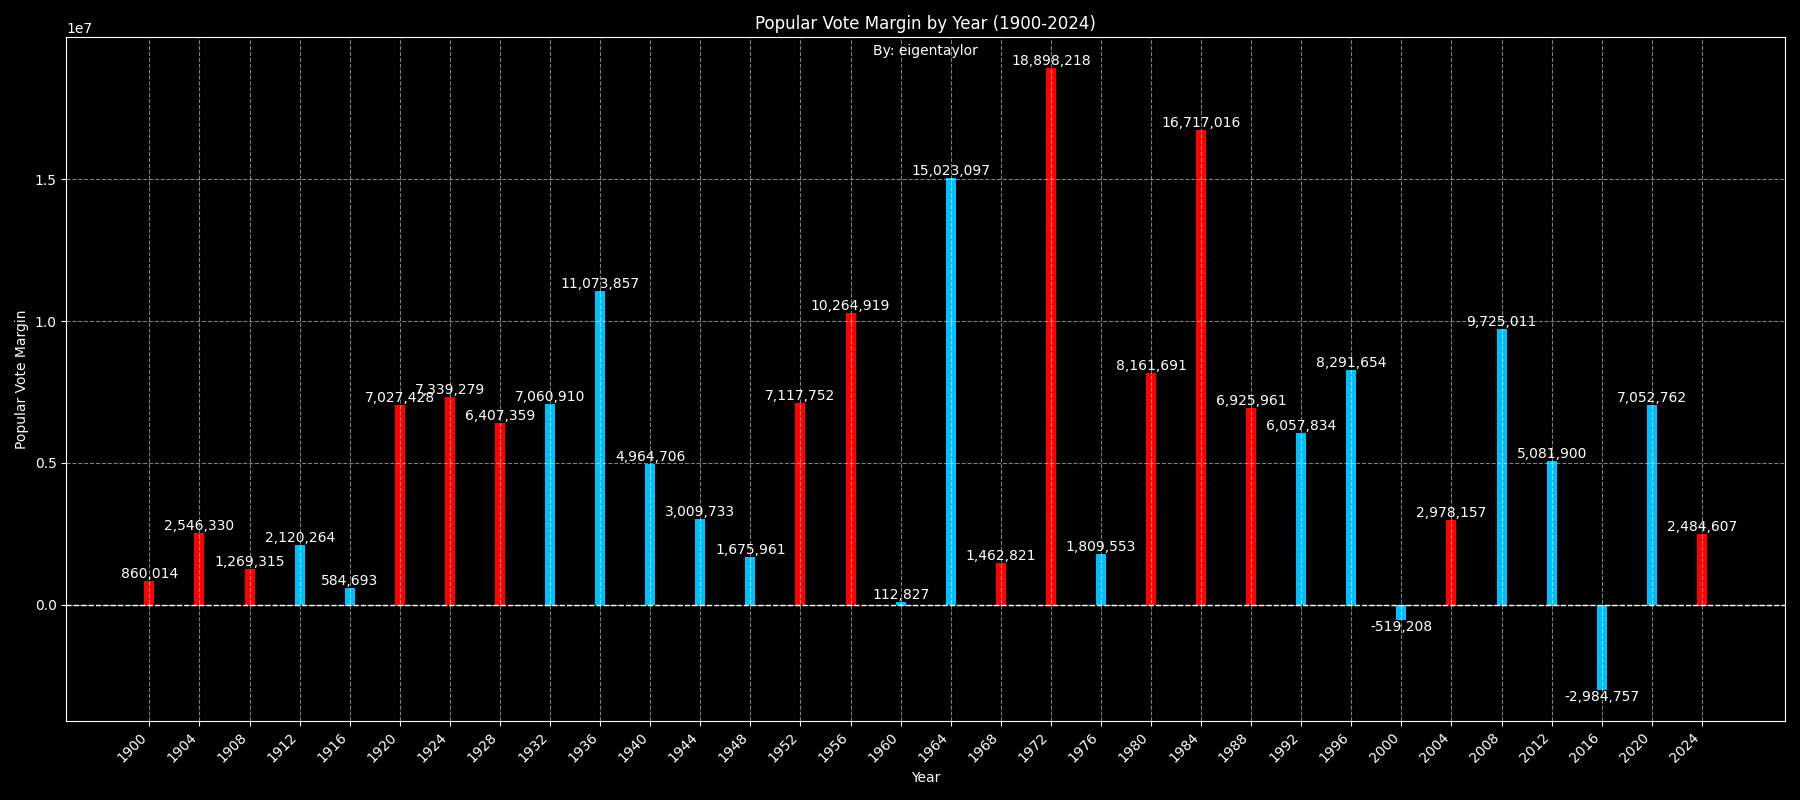
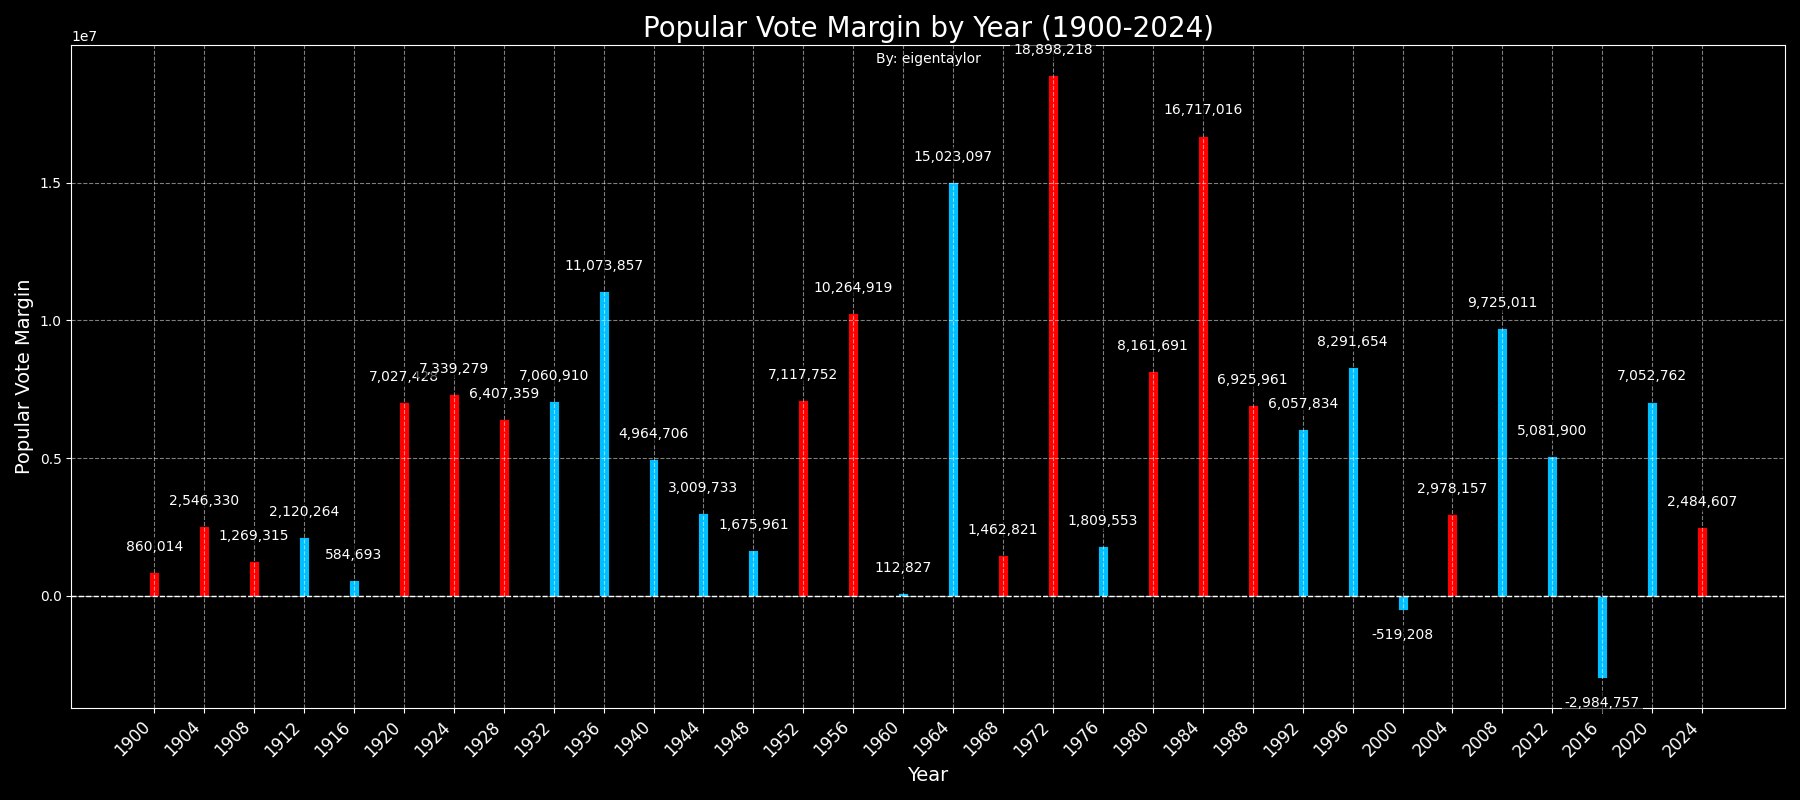
Improve bar plot styling and data label formatting
Enhanced the make_bar_plot function in plotting.py for better readability and consistent styling. Data labels now use scientific notation for non-integers, have improved positioning, and are styled with a colored bounding box. Font sizes and colors for titles, labels, and ticks are standardized, and bar edge styling is added for clarity. Updated PNG results reflect these visualization improvements.

diff --git a/plotting.py b/plotting.py
@@ -72,7 +72,7 @@ def make_plot(flip_results_df, start_year, end_year, plot_count, key, ylabel, ti
         # Put labels on bottom
         for i in range(len(flip_results_df)):
             y = data.iloc[i]
-            formatted = f'{int(y):,}' if all_integers else f'{y:.5f}'
+            formatted = f'{int(y):,}' if all_integers else f'{y:.2e}'
             # place slightly above for positive, below for negative
             y_text = y + y_offset if y >= 0 else y - y_offset
             va = 'bottom' if y >= 0 else 'top'
@@ -140,36 +140,56 @@ def make_bar_plot(flip_results_df, start_year, end_year, plot_count, key, ylabel
     data = flip_results_df[key].astype(float)
     all_integers = data.apply(lambda x: float(x).is_integer()).all()
 
+    # readability and styling (match line plots)
+    title_fs = 20
+    label_fs = 14
+    tick_fs = 12
+    data_label_fs = 10
+    data_bbox = dict(facecolor='black', alpha=0.6, pad=2, edgecolor='none')
+    bar_color_default = '#ff6b6b'
+    bar_edge = dict(edgecolor='black', linewidth=0.6)
+
     if subplot_dual_log:
         fig, (ax_top, ax_bottom) = plt.subplots(2, 1, figsize=(18, 12), sharex=True)
 
         # Top
+        top_colors = flip_results_df['color'] if 'color' in flip_results_df.columns else bar_color_default
         if key in ('popular_vote_margin', 'popular_margin_ratio'):
-            ax_top.bar(flip_results_df.index, data, color=flip_results_df['color'])
+            ax_top.bar(flip_results_df.index, data, color=top_colors, **bar_edge)
             ax_top.axhline(y=0, color='white', linewidth=1, linestyle='dashed')
-            for i in range(len(flip_results_df)):
-                margin = data.iloc[i]
-                formatted_margin = f'{int(margin):,}' if all_integers else f'{margin:.5f}'
-                va = 'top' if margin < 0 else 'bottom'
-                ax_top.text(flip_results_df.index[i], margin, formatted_margin, ha='center', va=va)
         else:
-            ax_top.bar(flip_results_df.index, data)
-            for i in range(len(flip_results_df)):
-                ratio = data.iloc[i]
-                formatted_ratio = f'{int(ratio):,}' if all_integers else f'{ratio:.5f}'
-                va = 'bottom' if ratio >= 0 else 'top'
-                ax_top.text(flip_results_df.index[i], ratio, formatted_ratio, ha='center', va=va)
+            ax_top.bar(flip_results_df.index, data, color=bar_color_default, **bar_edge)
 
-        ax_top.set_ylabel(ylabel)
-        ax_top.set_title(title)
+        # Title/labels/fonts
+        ax_top.set_ylabel(ylabel, fontsize=label_fs)
+        ax_top.set_title(title, fontsize=title_fs)
         ax_top.grid(True, linestyle='--', alpha=0.5)
+        ax_top.tick_params(axis='both', which='major', labelsize=tick_fs)
+
+        # Compute vertical offset for bar labels
+        y_max = data.max()
+        y_min = data.min()
+        y_range = y_max - y_min
+        if y_range == 0:
+            y_offset = abs(y_max) * 0.01 if abs(y_max) > 0 else 1.0
+        else:
+            y_offset = y_range * 0.03
+
+        # Labels on top
+        for i in range(len(flip_results_df)):
+            y = data.iloc[i]
+            formatted = f'{int(y):,}' if all_integers else f'{y:.5f}'
+            y_text = y + y_offset if y >= 0 else y - y_offset
+            va = 'bottom' if y >= 0 else 'top'
+            ax_top.text(flip_results_df.index[i], y_text, formatted, ha='center', va=va, fontsize=data_label_fs, color='white', bbox=data_bbox)
 
         # Bottom (log or symlog depending on data)
+        bottom_colors = top_colors
         if key in ('popular_vote_margin', 'popular_margin_ratio'):
-            ax_bottom.bar(flip_results_df.index, data, color=flip_results_df['color'])
+            ax_bottom.bar(flip_results_df.index, data, color=bottom_colors, **bar_edge)
             ax_bottom.axhline(y=0, color='white', linewidth=1, linestyle='dashed')
         else:
-            ax_bottom.bar(flip_results_df.index, data)
+            ax_bottom.bar(flip_results_df.index, data, color=bar_color_default, **bar_edge)
 
         if (data <= 0).any():
             ax_bottom.set_yscale('symlog', linthresh=1e-6)
@@ -178,21 +198,24 @@ def make_bar_plot(flip_results_df, start_year, end_year, plot_count, key, ylabel
             ax_bottom.set_yscale('log')
             bottom_label = ylabel + ' (log)'
 
-        ax_bottom.set_ylabel(bottom_label)
+        ax_bottom.set_ylabel(bottom_label, fontsize=label_fs)
         ax_bottom.grid(True, linestyle='--', alpha=0.5)
+        ax_bottom.tick_params(axis='both', which='major', labelsize=tick_fs)
 
         # Labels on bottom
         for i in range(len(flip_results_df)):
             y = data.iloc[i]
             formatted = f'{int(y):,}' if all_integers else f'{y:.5f}'
+            y_text = y + y_offset if y >= 0 else y - y_offset
             va = 'bottom' if y >= 0 else 'top'
-            ax_bottom.text(flip_results_df.index[i], y, formatted, ha='center', va=va)
+            ax_bottom.text(flip_results_df.index[i], y_text, formatted, ha='center', va=va, fontsize=data_label_fs, color='white', bbox=data_bbox)
 
-        ax_bottom.set_xlabel('Year')
+        ax_bottom.set_xlabel('Year', fontsize=label_fs)
         ax_bottom.set_xticks(flip_results_df.index)
         for label in ax_bottom.get_xticklabels():
             label.set_rotation(45)
             label.set_ha('right')
+            label.set_fontsize(tick_fs)
 
         fig.text(0.5, 0.99, 'By: eigentaylor', ha='center', va='top')
         fig.tight_layout()
@@ -205,27 +228,36 @@ def make_bar_plot(flip_results_df, start_year, end_year, plot_count, key, ylabel
 
     # Default single-axes behavior
     plt.figure(figsize=(18, 8))
+    default_colors = flip_results_df['color'] if 'color' in flip_results_df.columns else bar_color_default
     if key in ('popular_vote_margin', 'popular_margin_ratio'):
-        plt.bar(flip_results_df.index, flip_results_df[key], color=flip_results_df['color'])
+        plt.bar(flip_results_df.index, flip_results_df[key], color=default_colors, **bar_edge)
         plt.axhline(y=0, color='white', linewidth=1, linestyle='dashed')
-        for i in range(len(flip_results_df)):
-            margin = flip_results_df[key][flip_results_df.index[i]]
-            formatted_margin = f'{int(margin):,}' if all_integers else f'{margin:.5f}'
-            va = 'top' if margin < 0 else 'bottom'
-            plt.text(flip_results_df.index[i], margin, formatted_margin, ha='center', va=va)
     else:
-        plt.bar(flip_results_df.index, flip_results_df[key])
-        for i in range(len(flip_results_df)):
-            ratio = flip_results_df[key][flip_results_df.index[i]]
-            formatted_ratio = f'{int(ratio):,}' if all_integers else f'{ratio:.5f}'
-            va = 'bottom' if ratio >= 0 else 'top'
-            plt.text(flip_results_df.index[i], ratio, formatted_ratio, ha='center', va=va)
+        plt.bar(flip_results_df.index, flip_results_df[key], color=bar_color_default, **bar_edge)
 
-    plt.xlabel('Year')
-    plt.ylabel(ylabel)
-    plt.title(title)
-    plt.xticks(flip_results_df.index, rotation=45, ha='right')
+    # label fonts and title
+    plt.xlabel('Year', fontsize=label_fs)
+    plt.ylabel(ylabel, fontsize=label_fs)
+    plt.title(title, fontsize=title_fs)
+    plt.xticks(flip_results_df.index, rotation=45, ha='right', fontsize=tick_fs)
     plt.grid(True, linestyle='--', alpha=0.5)
+
+    # Add readable data labels with bbox and offset
+    y_max = data.max()
+    y_min = data.min()
+    y_range = y_max - y_min
+    if y_range == 0:
+        y_offset = abs(y_max) * 0.01 if abs(y_max) > 0 else 1.0
+    else:
+        y_offset = y_range * 0.03
+
+    for i in range(len(flip_results_df)):
+        y = data.iloc[i]
+        formatted = f'{int(y):,}' if all_integers else f'{y:.5f}'
+        y_text = y + y_offset if y >= 0 else y - y_offset
+        va = 'bottom' if y >= 0 else 'top'
+        plt.text(flip_results_df.index[i], y_text, formatted, ha='center', va=va, fontsize=data_label_fs, color='white', bbox=data_bbox)
+
     plt.tight_layout()
     plt.text(0.5, 0.99, 'By: eigentaylor', ha='center', va='top', transform=plt.gca().transAxes)
 
